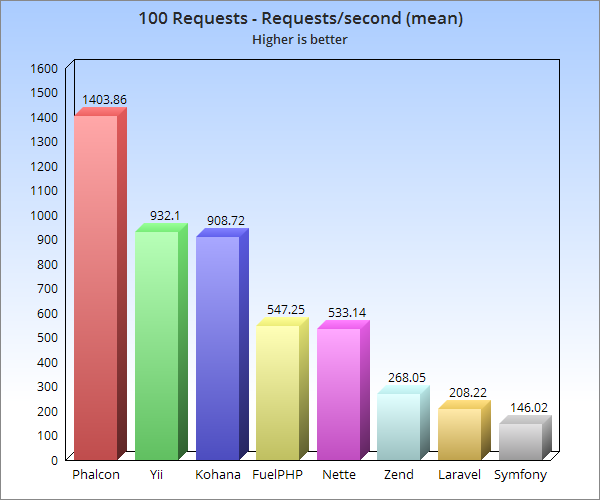
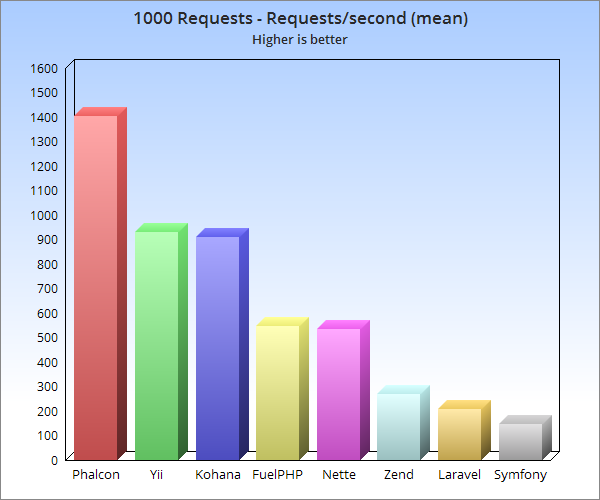
Corrected graphics and changed version

diff --git a/app/config/config.php b/app/config/config.php
@@ -2,7 +2,7 @@
 
 return [
     'app'           => [
-        'version'         => '3.1.1',
+        'version'         => '3.1.2',
         'timezone'        => getenv('APP_TIMEZONE'),
         'debug'           => getenv('APP_DEBUG'),
         'env'             => getenv('APP_ENV'),
